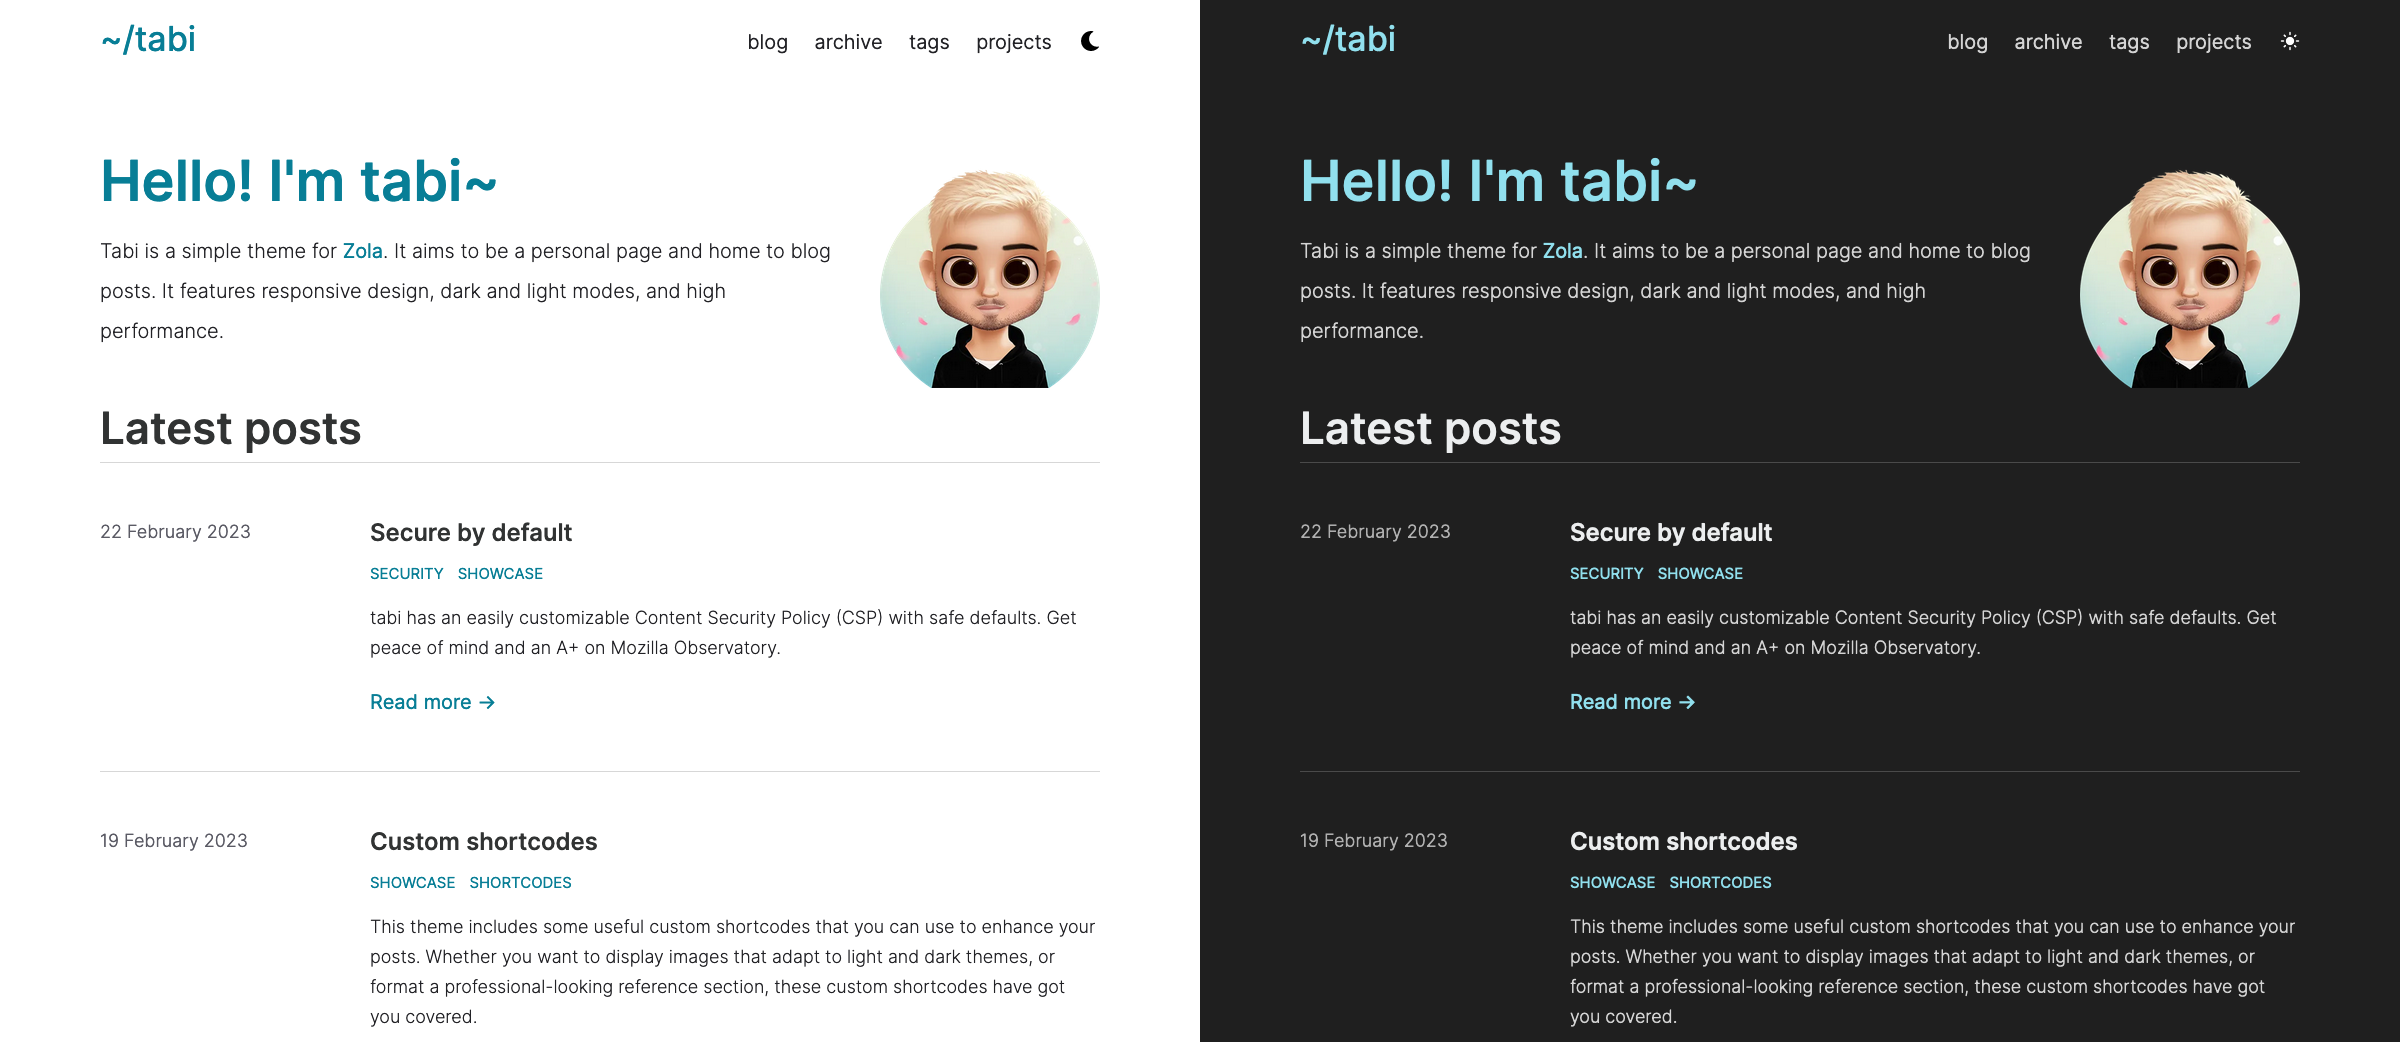
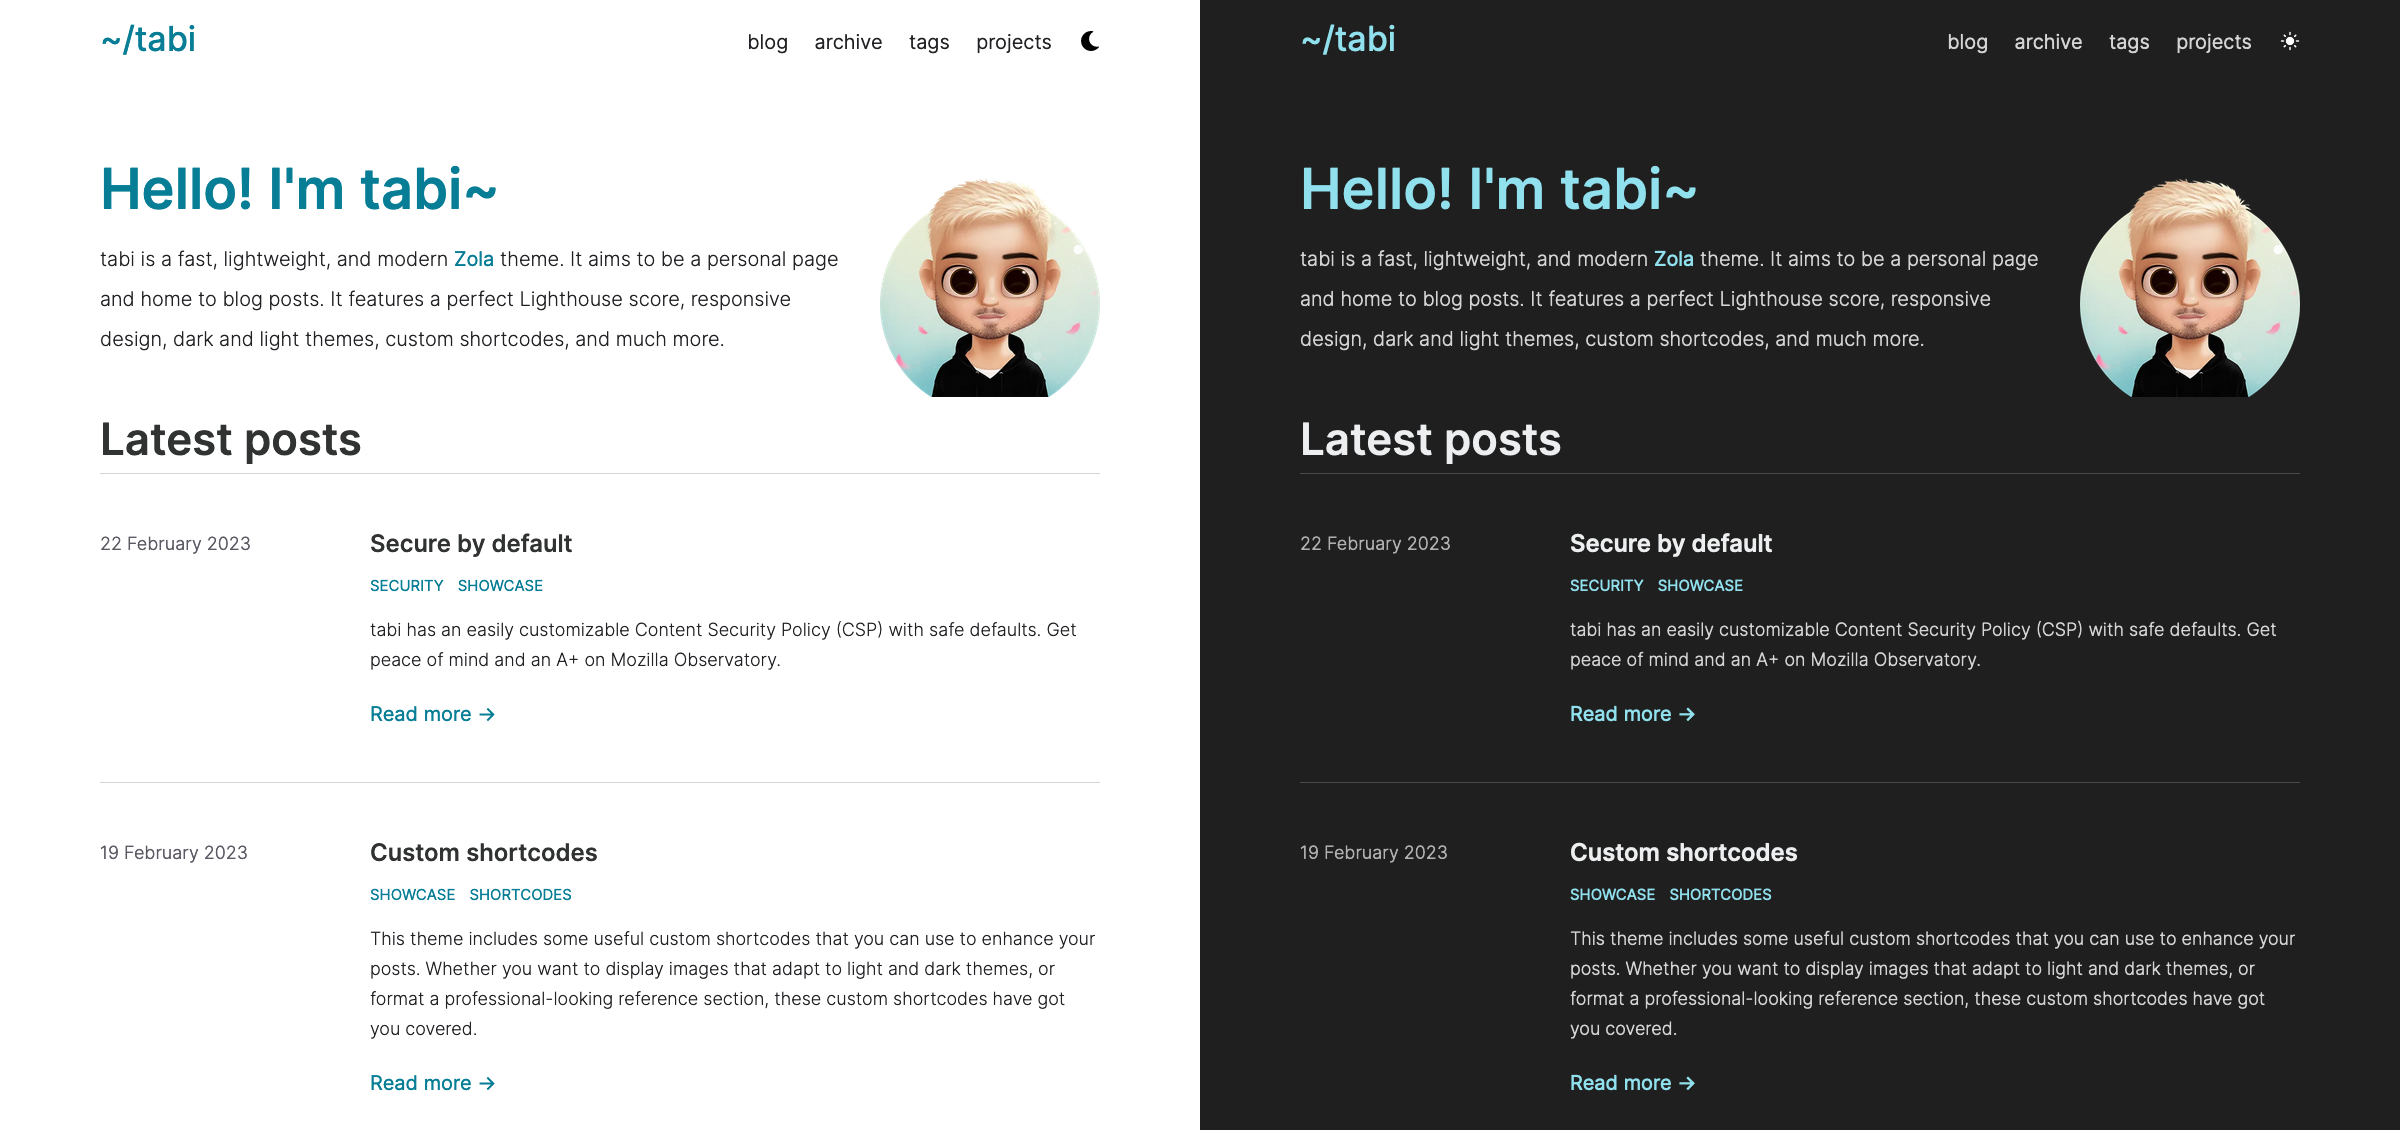
📝 docs: lowercase 'tabi'

diff --git a/README.md b/README.md
@@ -8,7 +8,7 @@ See a live preview [here](https://welpo.github.io/tabi).
 
 ![tabi](screenshot.png)
 
-Tabi has a perfect score on Google's Lighthouse audit:
+tabi has a perfect score on Google's Lighthouse audit:
 
 ![lighthouse](lighthouse_score.png)
 
@@ -98,7 +98,7 @@ section_path = "blog/_index.md"
 header = {title = "Hello! I'm tabi~", img = "$BASE_URL/img/main.webp" }
 ```
 
-The content outside the front matter will be rendered between the header title and the posts listing. In the screenshot above, it's the text that reads "Tabi is a fast, lightweight, and modern Zola theme…".
+The content outside the front matter will be rendered between the header title and the posts listing. In the screenshot above, it's the text that reads "tabi is a fast, lightweight, and modern Zola theme…".
 
 ## Inspiration
 

diff --git a/content/_index.md b/content/_index.md
@@ -10,4 +10,4 @@ section_path = "blog/_index.md"
 max_posts = 4
 +++
 
-Tabi is a fast, lightweight, and modern [Zola](https://getzola.org) theme. It aims to be a personal page and home to blog posts. It features a perfect Lighthouse score, responsive design, dark and light themes, custom shortcodes, and much more.
+tabi is a fast, lightweight, and modern [Zola](https://getzola.org) theme. It aims to be a personal page and home to blog posts. It features a perfect Lighthouse score, responsive design, dark and light themes, custom shortcodes, and much more.
